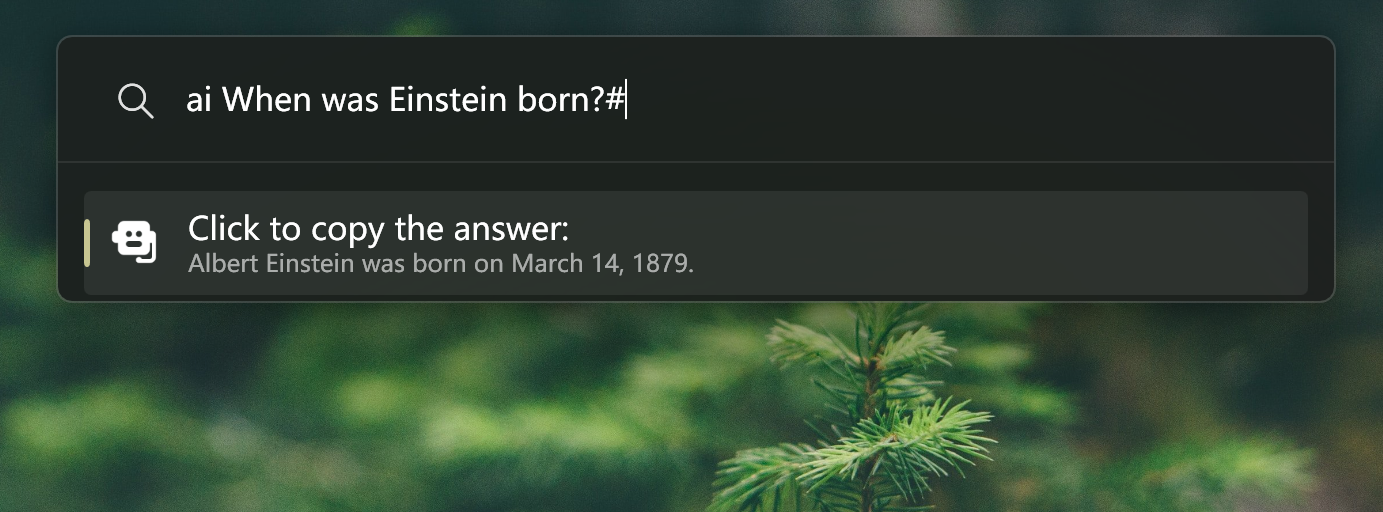
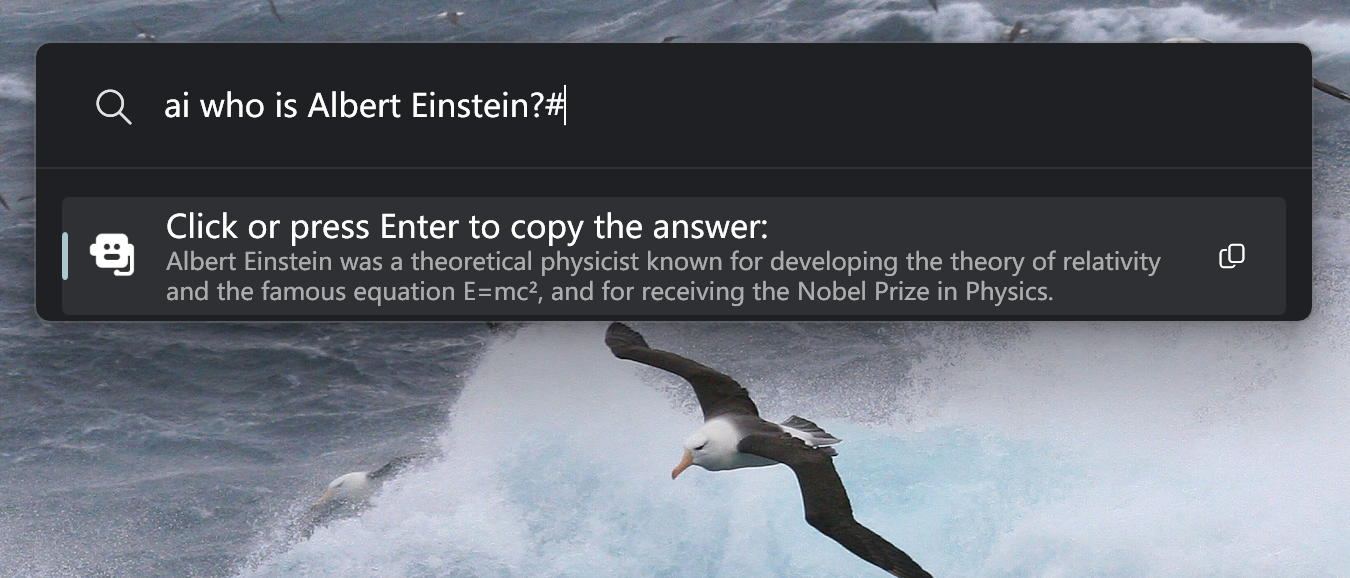
update readme

diff --git a/README.md b/README.md
@@ -3,21 +3,28 @@ A plugin for PowerToys Run that allows you to chat with your OpenAI API.
 
 ![screenshots1](./images/screenshots1.png)
 
-## Features
+## 1 Features
 For the scenarios of PowerToys Run, you may want an answer as concise as possible. If you agree to it, ChatOpenAI is the plugin you need!
 
 You can:
 - Use your own OpenAI API or OpenAI compatible API.
 - Specify the model you want.
 - Get your answer after you type an ending character to save a few tokens for you (you can disable it if you do not like it).
-- Click to copy the answer.
+- Click or press Enter to copy the answer.
 
 ![screenshots2](./images/screenshots2.png)
 
-## Installation
+## 2 Installation
+### 2.1 Manual Installation
 1. Download the latest release of the ChatOpenAI from the releases page.
 2. Extract the zip file's contents to your PowerToys modules directory for the user (`%LOCALAPPDATA%\Microsoft\PowerToys\PowerToys Run\Plugins`).
 3. Restart PowerToys.
 
-## Acknowledgments
+### 2.2 Use [ptr](https://github.com/8LWXpg/ptr)
+```shell
+ptr add ChatOpenAI Bennett-Yang/PowerToysRun_ChatOpenAI
+```
+
+
+## 3 Acknowledgments
 Thank [hlaueriksson](https://github.com/hlaueriksson) for the blog [Creating custom PowerToys Run plugins](https://conductofcode.io/post/creating-custom-powertoys-run-plugins/) which guides me to finish the plugin!
